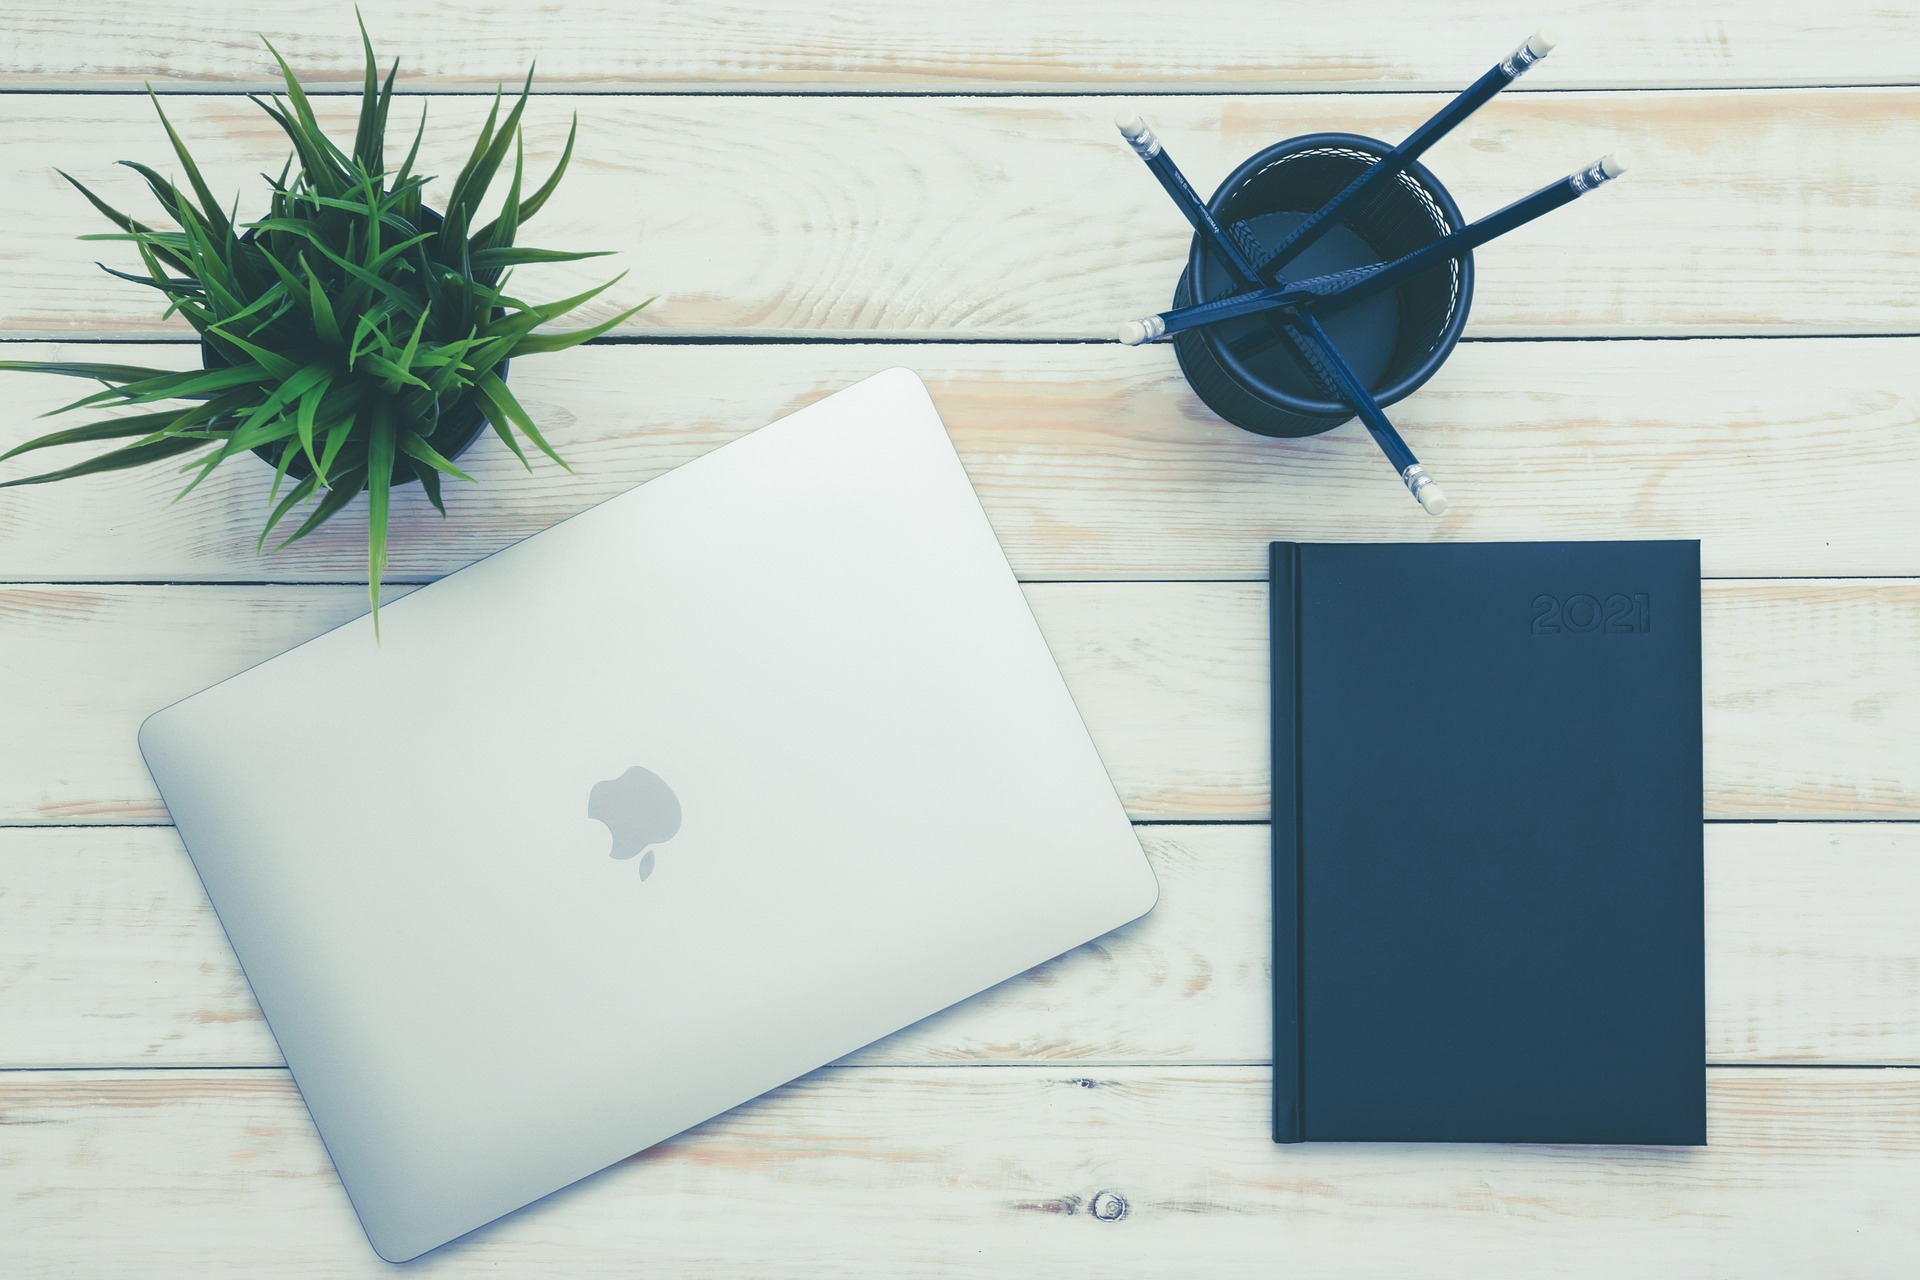
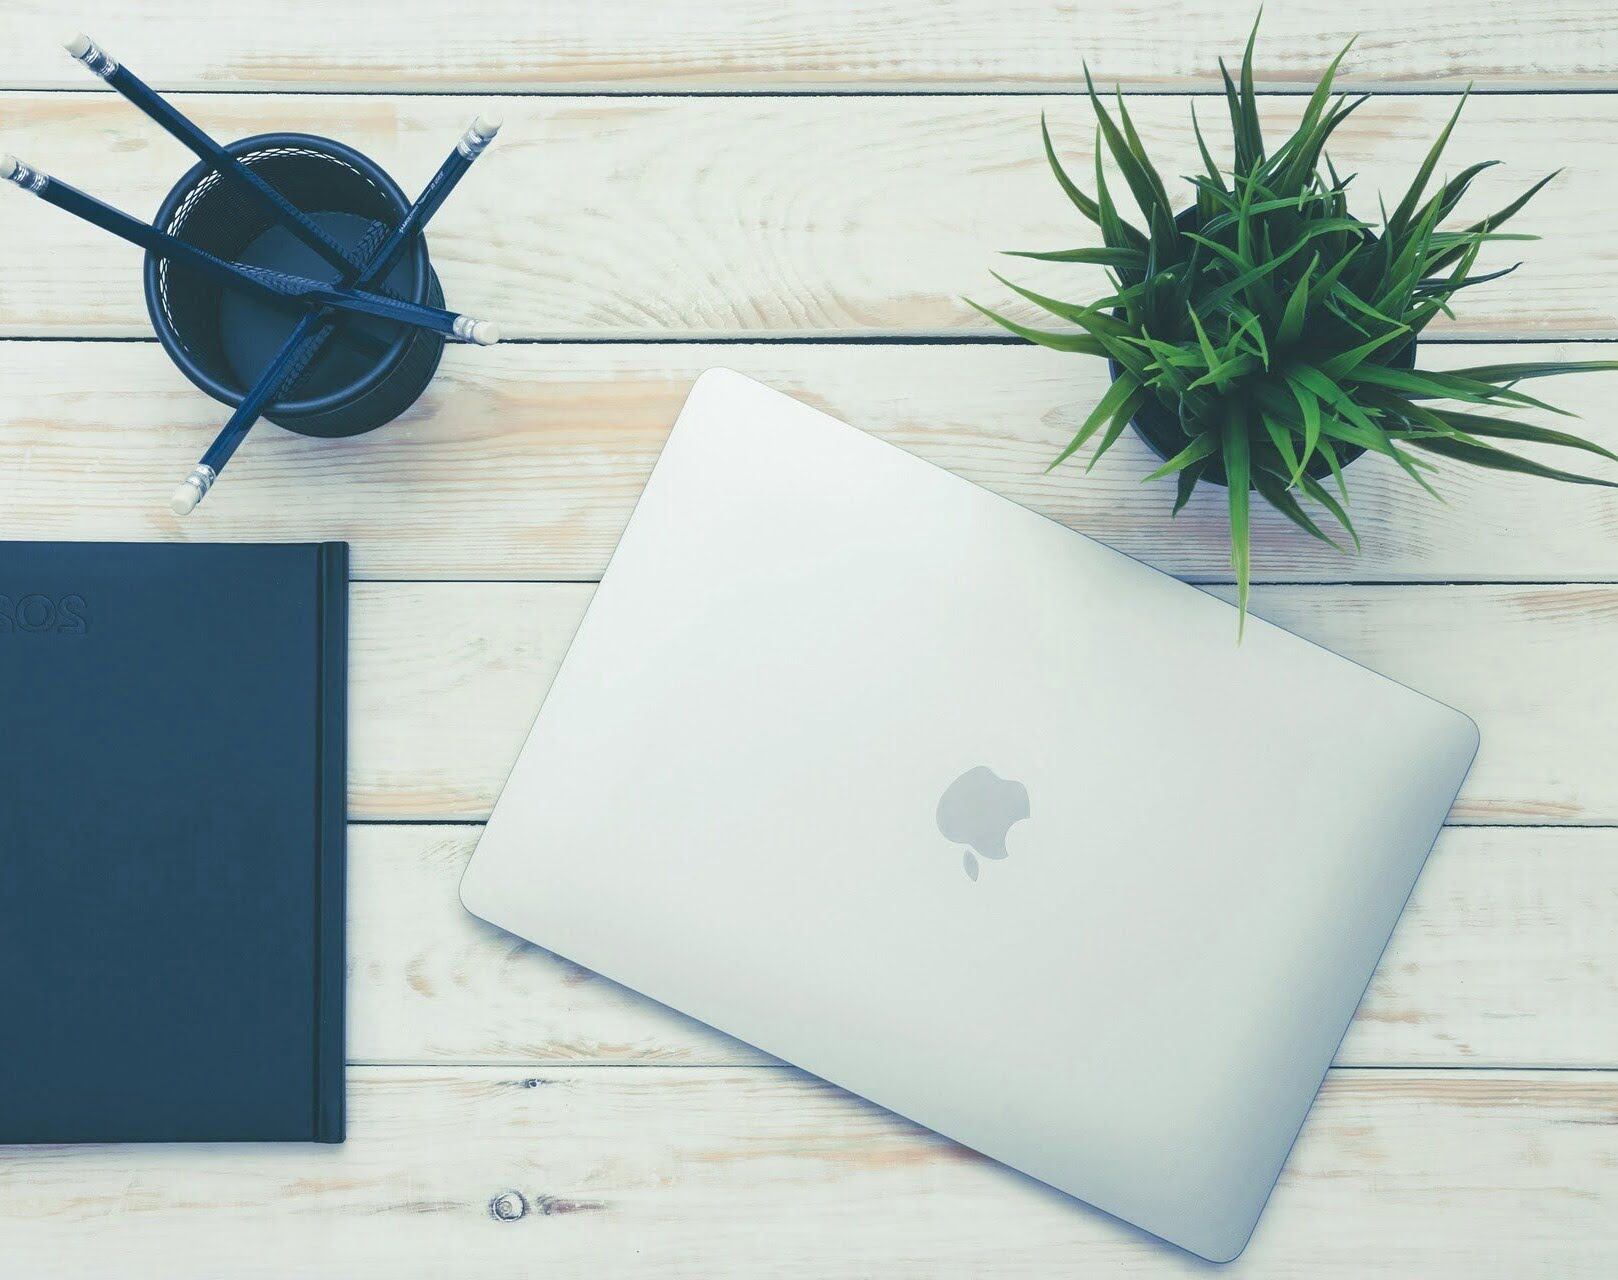
modification des dimensions des photos de fond

diff --git a/src/styles/index.css b/src/styles/index.css
@@ -492,7 +492,7 @@ body {
 }
 
 .theme_jour {
-  background: url("../assets/laptop1.jpg") fixed no-repeat top center;
+  background: url("../assets/laptop.jpg") fixed center;
   color: black;
 }
 .theme_jour a {
@@ -511,7 +511,7 @@ body {
 }
 
 .theme_nuit {
-  background: url("../assets/desk1.jpg") fixed right;
+  background: url("../assets/desk.jpg") fixed right;
   color: rgb(255, 255, 255);
 }
 .theme_nuit a {
@@ -673,6 +673,12 @@ header .boule:hover {
 }
 
 @media screen and (max-width: 650px) {
+  .theme_jour {
+    background: url("../assets/laptop1.jpg") fixed top center;
+  }
+  .theme_nuit {
+    background: url("../assets/desk1.jpg") fixed right;
+  }
   .timeline .column::before {
     left: 50px;
     height: 80%;

diff --git a/src/styles/layout/_general.scss b/src/styles/layout/_general.scss
@@ -19,7 +19,7 @@ body {
 }
 
 .theme_jour {
-  background: url("../assets/laptop1.jpg") fixed no-repeat top center;
+  background: url("../assets/laptop.jpg") fixed center;
   color: $color-secondary;
   a {
     color: $color-secondary;
@@ -38,7 +38,7 @@ body {
 }
 
 .theme_nuit {
-  background: url("../assets/desk1.jpg") fixed right;
+  background: url("../assets/desk.jpg") fixed right;
   color: $color-primary;
   a {
     color: $color-primary;

diff --git a/src/styles/layout/_mediastyle.scss b/src/styles/layout/_mediastyle.scss
@@ -1,4 +1,10 @@
 @media screen and (max-width: 650px) {
+  .theme_jour {
+    background: url("../assets/laptop1.jpg") fixed top center;
+  }
+  .theme_nuit {
+    background: url("../assets/desk1.jpg") fixed right;
+  }
   .timeline {
     .column::before {
       left: 50px;
